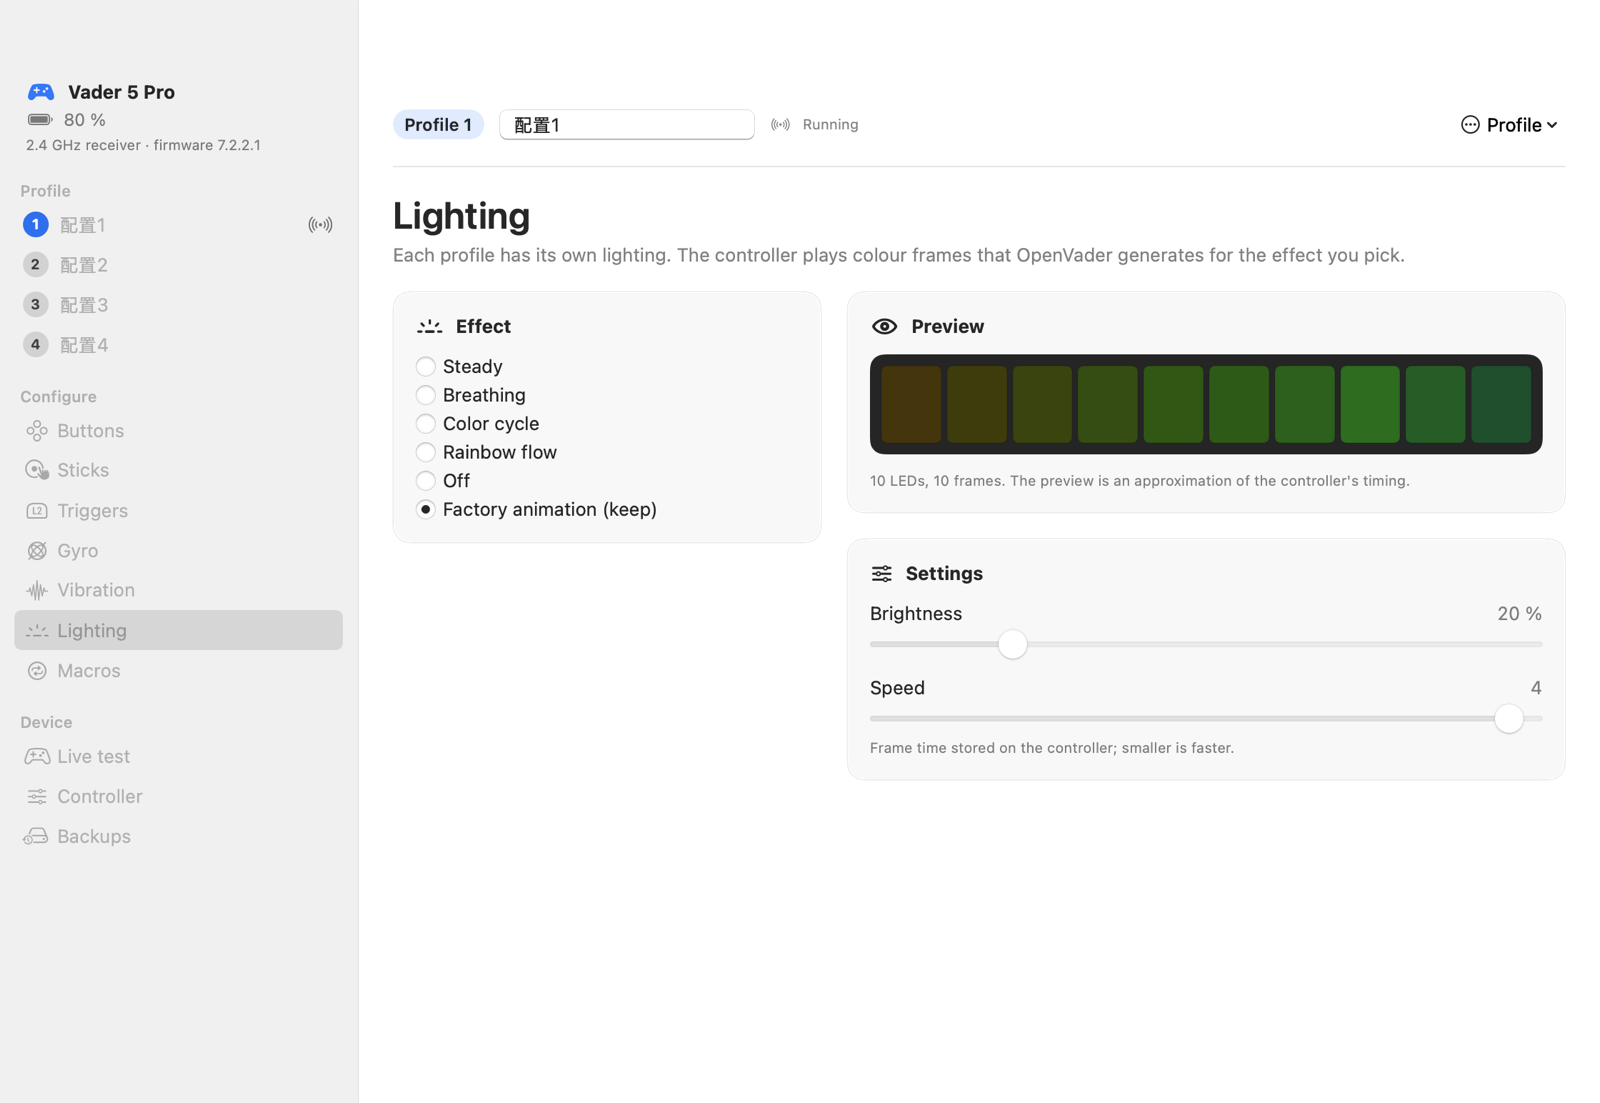
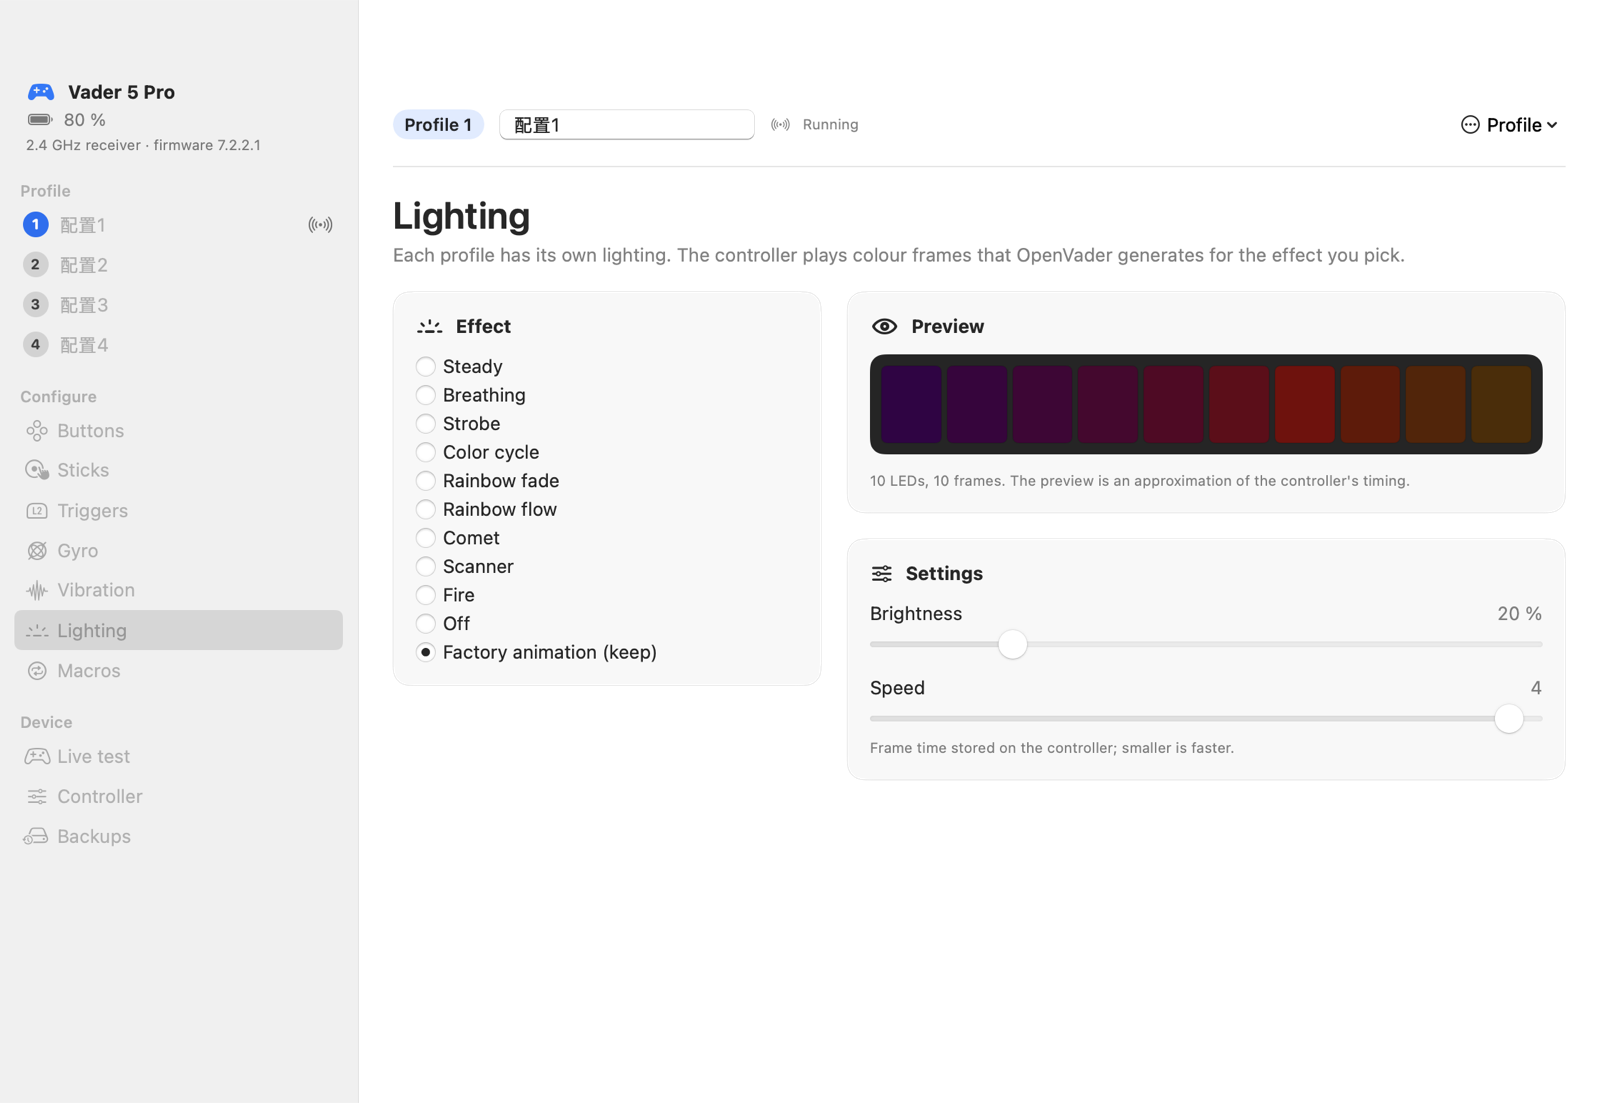
More lighting effects, rainbow direction, and a disconnect crash fix
Add strobe, rainbow fade, comet, scanner and fire. The controller only
plays frames, so each is a frame generator; the effect byte keeps the
closest Space Station LedType and OpenVader recognises its own effects
by regenerating them. Rainbow flow and comet can run left or right
(LED 0 is the left end, checked on hardware).

The profile pages force-unwrapped the draft, so a controller disconnect
while a page was open crashed the app; fall back to the last value.

Changed region(s): [[0.5312, 0.3083, 0.9688, 0.4007], [0.2812, 0.3699, 0.4062, 0.5549], [0.2812, 0.5857, 0.4062, 0.6165]]

diff --git a/Sources/VaderKit/Model/LightingConfig.swift b/Sources/VaderKit/Model/LightingConfig.swift
@@ -19,6 +19,21 @@ public struct LEDColor: Sendable, Equatable, Hashable, Codable {
     }
 
     public var hex: String { String(format: "#%02X%02X%02X", red, green, blue) }
+
+    /// The same colour at a fraction (0...1) of its brightness.
+    public func scaled(_ k: Double) -> LEDColor {
+        LEDColor(red: UInt8(Double(red) * k), green: UInt8(Double(green) * k), blue: UInt8(Double(blue) * k))
+    }
+
+    /// Hue in 0..<1, or nil for greys.
+    public var hue: Double? {
+        let r = Double(red), g = Double(green), b = Double(blue)
+        let hi = max(r, g, b), lo = min(r, g, b)
+        guard hi > lo else { return nil }
+        let d = hi - lo
+        let h: Double = hi == r ? (g - b) / d : hi == g ? 2 + (b - r) / d : 4 + (r - g) / d
+        return (h / 6 + 1).truncatingRemainder(dividingBy: 1)
+    }
     public var isBlack: Bool { red == 0 && green == 0 && blue == 0 }
 
     public static let black = LEDColor(red: 0, green: 0, blue: 0)
@@ -41,42 +56,65 @@ public struct LEDColor: Sendable, Equatable, Hashable, Codable {
     }
 }
 
-/// Lighting effects, numbered like Space Station's `LedType` so a profile
-/// written here reads back sensibly there.
-public enum LightingEffect: UInt8, Sendable, CaseIterable, Codable, Identifiable {
-    case flow = 1
-    case breathing = 2
-    case gradient = 3
-    case steady = 5
-    case off = 6
-    case factory = 7
+/// Lighting effects. The controller only plays frames, so every effect is a frame generator here; the
+/// effect byte stored with them is the closest Space Station `LedType`, so a profile written here still
+/// reads back sensibly there. OpenVader's own extra effects are recognised from their frames.
+public enum LightingEffect: String, Sendable, CaseIterable, Codable, Identifiable {
+    case steady, breathing, strobe, gradient, rainbowFade, flow, comet, scanner, fire, off, factory
 
-    public var id: UInt8 { rawValue }
+    public var id: String { rawValue }
 
     public var title: String {
         switch self {
-        case .flow: "Rainbow flow"
-        case .breathing: "Breathing"
-        case .gradient: "Color cycle"
         case .steady: "Steady"
+        case .breathing: "Breathing"
+        case .strobe: "Strobe"
+        case .gradient: "Color cycle"
+        case .rainbowFade: "Rainbow fade"
+        case .flow: "Rainbow flow"
+        case .comet: "Comet"
+        case .scanner: "Scanner"
+        case .fire: "Fire"
         case .off: "Off"
         case .factory: "Factory animation"
         }
     }
 
-    public var colorRange: ClosedRange<Int> {
+    /// Space Station's `LedType` for the effect byte.
+    public var ledType: UInt8 {
         switch self {
-        case .steady: 1...1
-        case .breathing: 1...5
-        case .gradient: 2...5
-        case .flow, .off, .factory: 0...0
+        case .flow, .comet, .scanner, .fire: 1
+        case .breathing, .strobe: 2
+        case .gradient, .rainbowFade: 3
+        case .steady: 5
+        case .off: 6
+        case .factory: 7
         }
     }
 
-    public var isAnimated: Bool { self == .flow || self == .breathing || self == .gradient || self == .factory }
+    public var colorRange: ClosedRange<Int> {
+        switch self {
+        case .steady, .comet, .scanner: 1...1
+        case .breathing: 1...5
+        case .strobe: 1...2
+        case .gradient: 2...5
+        case .rainbowFade, .flow, .fire, .off, .factory: 0...0
+        }
+    }
+
+    public var isAnimated: Bool { self != .steady && self != .off }
+    public var hasDirection: Bool { self == .flow || self == .comet }
 
     /// Effects the editor offers. Factory frames can only be kept, not generated.
-    public static let editable: [LightingEffect] = [.steady, .breathing, .gradient, .flow, .off]
+    public static let editable: [LightingEffect] =
+        [.steady, .breathing, .strobe, .gradient, .rainbowFade, .flow, .comet, .scanner, .fire, .off]
+}
+
+/// Which way the rainbow travels along the light bar. LED 0 is the left end.
+public enum FlowDirection: String, Sendable, CaseIterable, Identifiable {
+    case left, right
+    public var id: String { rawValue }
+    public var title: String { self == .left ? "Left" : "Right" }
 }
 
 /// The per-profile lighting blob (`0xA7` / `0xA8`).
@@ -100,7 +138,40 @@ public struct LightingConfig: Sendable, Equatable {
     public var frameCount: Int { ledCount > 0 ? (bytes.count - Self.headerSize) / (ledCount * 3) : 0 }
 
     public var effectRaw: UInt8 { bytes[8] }
-    public var effect: LightingEffect? { LightingEffect(rawValue: bytes[8]) }
+
+    /// The effect, from the stored `LedType` and, for OpenVader's own effects, from the frames themselves.
+    public var effect: LightingEffect? {
+        switch bytes[8] {
+        case 5: return .steady
+        case 6: return .off
+        case 7: return .factory
+        case 2: return reproduces(.strobe, colors: strobeColors) ? .strobe : .breathing
+        case 3: return reproduces(.rainbowFade, colors: []) ? .rainbowFade : .gradient
+        case 1:
+            if reproduces(.fire, colors: []) { return .fire }
+            if reproduces(.scanner, colors: [headColor]) { return .scanner }
+            if FlowDirection.allCases.contains(where: { reproduces(.comet, colors: [headColor], direction: $0) }) {
+                return .comet
+            }
+            return .flow
+        default: return nil
+        }
+    }
+
+    /// The brightest LED of the first frame: the head of a comet or scanner.
+    private var headColor: LEDColor {
+        (0..<ledCount).map { color(frame: 0, led: $0) }
+            .max { Int($0.red) + Int($0.green) + Int($0.blue) < Int($1.red) + Int($1.green) + Int($1.blue) } ?? .black
+    }
+
+    private var strobeColors: [LEDColor] { [color(frame: 0, led: 0), color(frame: frameCount / 2, led: 0)] }
+
+    /// True when generating `effect` would give exactly these frames and loop window.
+    private func reproduces(_ effect: LightingEffect, colors: [LEDColor], direction: FlowDirection = .left) -> Bool {
+        var copy = self
+        copy.apply(effect, colors: colors, direction: direction)
+        return copy.bytes[2...4] == bytes[2...4] && copy.bytes[Self.headerSize...] == bytes[Self.headerSize...]
+    }
 
     /// 0...100
     public var brightness: Int {
@@ -153,15 +224,33 @@ public struct LightingConfig: Sendable, Equatable {
         return out
     }
 
+    /// Which way a rainbow flow or comet travels, read back from its frames; nil for other effects.
+    public var direction: FlowDirection? {
+        switch effect {
+        case .flow:
+            guard frameCount > 1, let h0 = color(frame: 0, led: 0).hue, let h1 = color(frame: 1, led: 0).hue
+            else { return nil }
+            // A left flow raises each LED's hue from frame to frame (colours move towards LED 0).
+            let step = (h1 - h0 + 1).truncatingRemainder(dividingBy: 1)
+            guard step > 0.01, step < 0.99 else { return nil }
+            return step < 0.5 ? .left : .right
+        case .comet:
+            return FlowDirection.allCases.first { reproduces(.comet, colors: [headColor], direction: $0) }
+        default:
+            return nil
+        }
+    }
+
     /// Rebuilds the frames for an effect, keeping the header geometry.
-    public mutating func apply(_ effect: LightingEffect, colors: [LEDColor]) {
+    public mutating func apply(_ effect: LightingEffect, colors: [LEDColor], direction: FlowDirection = .left) {
         guard isValid, effect != .factory else { return }
         let frames = frameCount
         for f in 0..<frames { fill(frame: f, with: .black) }
         bytes[2] = 0  // click feedback latches the display; keep it off
         bytes[3] = 0
-        bytes[8] = effect.rawValue
+        bytes[8] = effect.ledType
         var palette = colors.isEmpty ? [LEDColor(red: 0, green: 120, blue: 255)] : colors
+        let lastFrame = UInt8(max(0, frames - 1))
         switch effect {
         case .steady:
             fill(frame: 0, with: palette[0])
@@ -179,13 +268,60 @@ public struct LightingConfig: Sendable, Equatable {
             for (i, c) in palette.enumerated() { fill(frame: i, with: c) }
             bytes[4] = UInt8(palette.count - 1)
         case .flow:
+            // Each frame shifts the hue wheel one step; the sign decides which end the colours travel to.
+            let step = direction == .left ? 1.0 : -1.0
             for f in 0..<frames {
                 for led in 0..<ledCount {
-                    let hue = Double(led) / Double(ledCount) + Double(f) / Double(frames)
+                    let hue = Double(led) / Double(ledCount) + step * Double(f) / Double(frames)
                     setColor(.hsv(hue, 1, 1), frame: f, led: led)
                 }
             }
-            bytes[4] = UInt8(max(0, frames - 1))
+            bytes[4] = lastFrame
+        case .strobe:
+            // Two quick flashes, a pause, then two more; with two colours they take turns.
+            let a = palette[0], b = palette.count > 1 ? palette[1] : palette[0]
+            let half = frames / 2
+            for (f, c) in [(0, a), (2, a), (half, b), (half + 2, b)] where f < frames { fill(frame: f, with: c) }
+            bytes[4] = lastFrame
+        case .rainbowFade:
+            // The whole bar is one colour that fades around the hue wheel.
+            for f in 0..<frames { fill(frame: f, with: .hsv(Double(f) / Double(frames), 1, 1)) }
+            bytes[4] = lastFrame
+        case .comet:
+            // A bright head with a fading tail runs along the bar and wraps around.
+            for f in 0..<frames {
+                let h = Int((Double(f) * Double(ledCount) / Double(frames)).rounded()) % ledCount
+                for (k, level) in [1.0, 0.35, 0.12].enumerated() {
+                    // Going left the head counts down and the tail trails to its right; going right, the reverse.
+                    let led = direction == .left ? (ledCount - 1 - h + k) % ledCount : (h - k + ledCount) % ledCount
+                    setColor(palette[0].scaled(level), frame: f, led: led)
+                }
+            }
+            bytes[4] = lastFrame
+        case .scanner:
+            // A light sweeping out and back, sampled evenly along the round trip.
+            let trip = Double(2 * (ledCount - 1))
+            for f in 0..<frames {
+                let p = Double(f) * trip / Double(frames)
+                let pos = Int((p <= Double(ledCount - 1) ? p : trip - p).rounded())
+                for (d, level) in [(0, 1.0), (-1, 0.25), (1, 0.25)] where (0..<ledCount).contains(pos + d) {
+                    setColor(palette[0].scaled(level), frame: f, led: pos + d)
+                }
+            }
+            bytes[4] = lastFrame
+        case .fire:
+            // Warm flicker from a fixed seed, so the frames come out the same every time and can be recognised.
+            var seed: UInt32 = 0x5EED
+            func random() -> Double {
+                seed = seed &* 1_664_525 &+ 1_013_904_223
+                return Double(seed >> 8) / Double(1 << 24)
+            }
+            for f in 0..<frames {
+                for led in 0..<ledCount {
+                    setColor(.hsv(0.01 + 0.09 * random(), 1, 0.35 + 0.65 * random()), frame: f, led: led)
+                }
+            }
+            bytes[4] = lastFrame
         case .factory:
             break
         }

diff --git a/Sources/vaderctl/main.swift b/Sources/vaderctl/main.swift
@@ -16,7 +16,7 @@ let usage = """
       restore <file.json> [1-4]    write a backup back, optionally one profile
       activate <1-4>               switch the running profile
       remap <1-4> <button> <target|default> [turbo <1-20>]
-      light <1-4> <steady|breathing|gradient|flow|off> [#RRGGBB ...] [brightness=0-100] [speed=1-255]
+      light <1-4> <steady|breathing|strobe|gradient|rainbowFade|flow|comet|scanner|fire|off> [#RRGGBB ...] [brightness=0-100] [speed=1-255] [direction=left|right]
       stick <1-4> <left|right> [deadzone=0-100] [outer=0-100] [curve=linear|instant|delayed] [circular=on|off]
       trigger <1-4> <left|right> <start 0-255> <end 0-255>
       gyro <1-4> <off|left|right> [key=LT] [hold|toggle] [sensitivity=0-100] [deadzone=0-100]
@@ -235,16 +235,17 @@ func run(_ args: [String]) throws {
 
     case "light":
         let p = try profileArg(args, 1)
-        guard args.count > 2, let effect = ["steady": LightingEffect.steady, "breathing": .breathing, "gradient": .gradient,
-                                            "flow": .flow, "off": .off][args[2].lowercased()] else {
-            throw CLIError("light <1-4> <steady|breathing|gradient|flow|off> [#RRGGBB...]")
+        let effects = LightingEffect.editable.map(\.rawValue)
+        guard args.count > 2,
+              let effect = LightingEffect.editable.first(where: { $0.rawValue.lowercased() == args[2].lowercased() }) else {
+            throw CLIError("light <1-4> <\(effects.joined(separator: "|"))> [#RRGGBB...]")
         }
         let colors = args.dropFirst(3).compactMap(LEDColor.init(hex:))
         let opts = options(args.dropFirst(3).filter { $0.contains("=") }[...])
         _ = try v.readProfile(p)
         var l = try v.readLighting(p)
         guard l.isValid else { throw CLIError("the controller returned a lighting format OpenVader does not know") }
-        l.apply(effect, colors: colors)
+        l.apply(effect, colors: colors, direction: opts["direction"].flatMap(FlowDirection.init(rawValue:)) ?? .left)
         if let b = opts["brightness"].flatMap(Int.init) { l.brightness = b }
         if let s = opts["speed"].flatMap(Int.init) { l.cycleTime = s }
         try v.commit(profile: p, lighting: l, progress: progressBar("Writing"))

diff --git a/Tests/VaderKitTests/CodecTests.swift b/Tests/VaderKitTests/CodecTests.swift
@@ -124,6 +124,50 @@ import Testing
         #expect(l.color(frame: 0, led: 0) != l.color(frame: 0, led: 6))
     }
 
+    @Test func flowDirectionRoundTrips() {
+        var l = blank()
+        l.apply(.flow, colors: [])
+        #expect(l.direction == .left, "the default flow moves towards LED 0")
+        l.apply(.flow, colors: [], direction: .right)
+        #expect(l.direction == .right)
+        l.apply(.flow, colors: [])
+        #expect(l.direction == .left)
+        l.apply(.steady, colors: [LEDColor(red: 255, green: 0, blue: 0)])
+        #expect(l.direction == nil)
+    }
+
+    @Test(arguments: [(10, 10), (12, 10)])
+    func everyEffectReadsBackAsItself(leds: Int, frames: Int) {
+        let red = LEDColor(red: 255, green: 0, blue: 0), blue = LEDColor(red: 0, green: 0, blue: 255)
+        for effect in LightingEffect.editable {
+            for colors in [[red], [red, blue], [red, blue, LEDColor(red: 0, green: 255, blue: 0)]]
+            where effect.colorRange.contains(colors.count) || effect.colorRange == 0...0 {
+                var l = blank(leds: leds, frames: frames)
+                l.apply(effect, colors: colors)
+                #expect(l.effect == effect, "\(effect) with \(colors.count) colours on \(leds) LEDs")
+                #expect(l.bytes[8] == effect.ledType)
+            }
+        }
+    }
+
+    @Test func cometDirectionRoundTrips() {
+        var l = blank()
+        let green = LEDColor(red: 0, green: 255, blue: 0)
+        l.apply(.comet, colors: [green], direction: .right)
+        #expect(l.effect == .comet && l.direction == .right)
+        l.apply(.comet, colors: [green], direction: .left)
+        #expect(l.effect == .comet && l.direction == .left)
+    }
+
+    @Test func rainbowFadeIsOneColourPerFrame() {
+        var l = blank()
+        l.apply(.rainbowFade, colors: [])
+        for f in 0..<l.frameCount {
+            #expect((0..<l.ledCount).allSatisfy { l.color(frame: f, led: $0) == l.color(frame: f, led: 0) })
+        }
+        #expect(l.color(frame: 0, led: 0) != l.color(frame: 5, led: 0))
+    }
+
     @Test func hexParsing() {
         #expect(LEDColor(hex: "#0078FF") == LEDColor(red: 0, green: 0x78, blue: 0xFF))
         #expect(LEDColor(hex: "12345") == nil)

diff --git a/Sources/OpenVader/Views/LightingView.swift b/Sources/OpenVader/Views/LightingView.swift
@@ -29,6 +29,17 @@ struct LightingView: View {
                         .pickerStyle(.radioGroup)
                         .labelsHidden()
 
+                        if draft.lightingEffect.hasDirection {
+                            Divider()
+                            Picker("Direction", selection: Binding(
+                                get: { draft.lighting.direction ?? .left },
+                                set: { draft.setLighting(effect: draft.lightingEffect, colors: draft.lightingColors,
+                                                         direction: $0) })) {
+                                ForEach(FlowDirection.allCases) { Text($0.title).tag($0) }
+                            }
+                            .pickerStyle(.segmented)
+                        }
+
                         let range = draft.lightingEffect.colorRange
                         if range.upperBound > 0 {
                             Divider()

diff --git a/Sources/OpenVader/Views/ContentView.swift b/Sources/OpenVader/Views/ContentView.swift
@@ -51,9 +51,12 @@ struct DetailView: View {
 
     var body: some View {
         if section.isProfileSection {
-            if model.drafts[model.selectedProfile] != nil {
+            if let current = model.drafts[model.selectedProfile] {
                 let i = model.selectedProfile
-                let draft = Binding(get: { model.drafts[i]! }, set: { model.drafts[i] = $0 })
+                // A disconnect clears the drafts while this page may still be drawing: fall back to the last
+                // value rather than crash, and never bring a cleared draft back.
+                let draft = Binding(get: { model.drafts[i] ?? current },
+                                    set: { if model.drafts[i] != nil { model.drafts[i] = $0 } })
                 profilePane(draft).id(i)
             } else {
                 ContentUnavailableView("Profile not loaded", systemImage: "questionmark.folder")

diff --git a/Sources/OpenVader/Model/AppModel.swift b/Sources/OpenVader/Model/AppModel.swift
@@ -61,11 +61,12 @@ struct ProfileDraft: Equatable {
     }
 
     /// Rebuilds the lighting frames from the editor's effect and colours.
-    mutating func setLighting(effect: LightingEffect, colors: [LEDColor]) {
+    /// Keeps the rainbow's current direction unless a new one is given.
+    mutating func setLighting(effect: LightingEffect, colors: [LEDColor], direction: FlowDirection? = nil) {
         lightingEffect = effect
         lightingColors = colors
         guard effect != .factory, lighting.isValid else { return }
-        lighting.apply(effect, colors: colors)
+        lighting.apply(effect, colors: colors, direction: direction ?? lighting.direction ?? .left)
     }
 }
 

diff --git a/README.md b/README.md
@@ -42,7 +42,7 @@ a Switch or a PC.
 | **Triggers** | Physical travel window (hair trigger), trigger-motor vibration strength | controller |
 | **Gyro** | Motion to left or right stick, activation key (hold or toggle), sensitivity, dead zone | controller |
 | **Vibration** | Grip motor on/off, intensity window and gain per side; test all four motors | controller |
-| **Lighting** | Steady, breathing, colour cycle, rainbow flow or off; colours, brightness, speed | controller |
+| **Lighting** | Steady, breathing, strobe, colour cycle, rainbow fade, rainbow flow (left or right), comet, scanner, fire or off; colours, brightness, speed | controller |
 | **Macros** | Up to 10 per profile, recorded live from the controller or edited step by step; a macro library and copying between profiles | controller |
 | **Controller** | Name, sleep timer, stick precision and centre sensitivity, quick profile switching, turbo, stick debounce/auto-calibration/snap-back filter, Steam & SDL takeover, firmware update check | controller |
 | **Keyboard & mouse** | Buttons as keys, clicks or scrolling; sticks as pointer, WASD, arrows or scrolling; gyro as pointer (what Space Station does on Windows) | Mac, while OpenVader runs |
